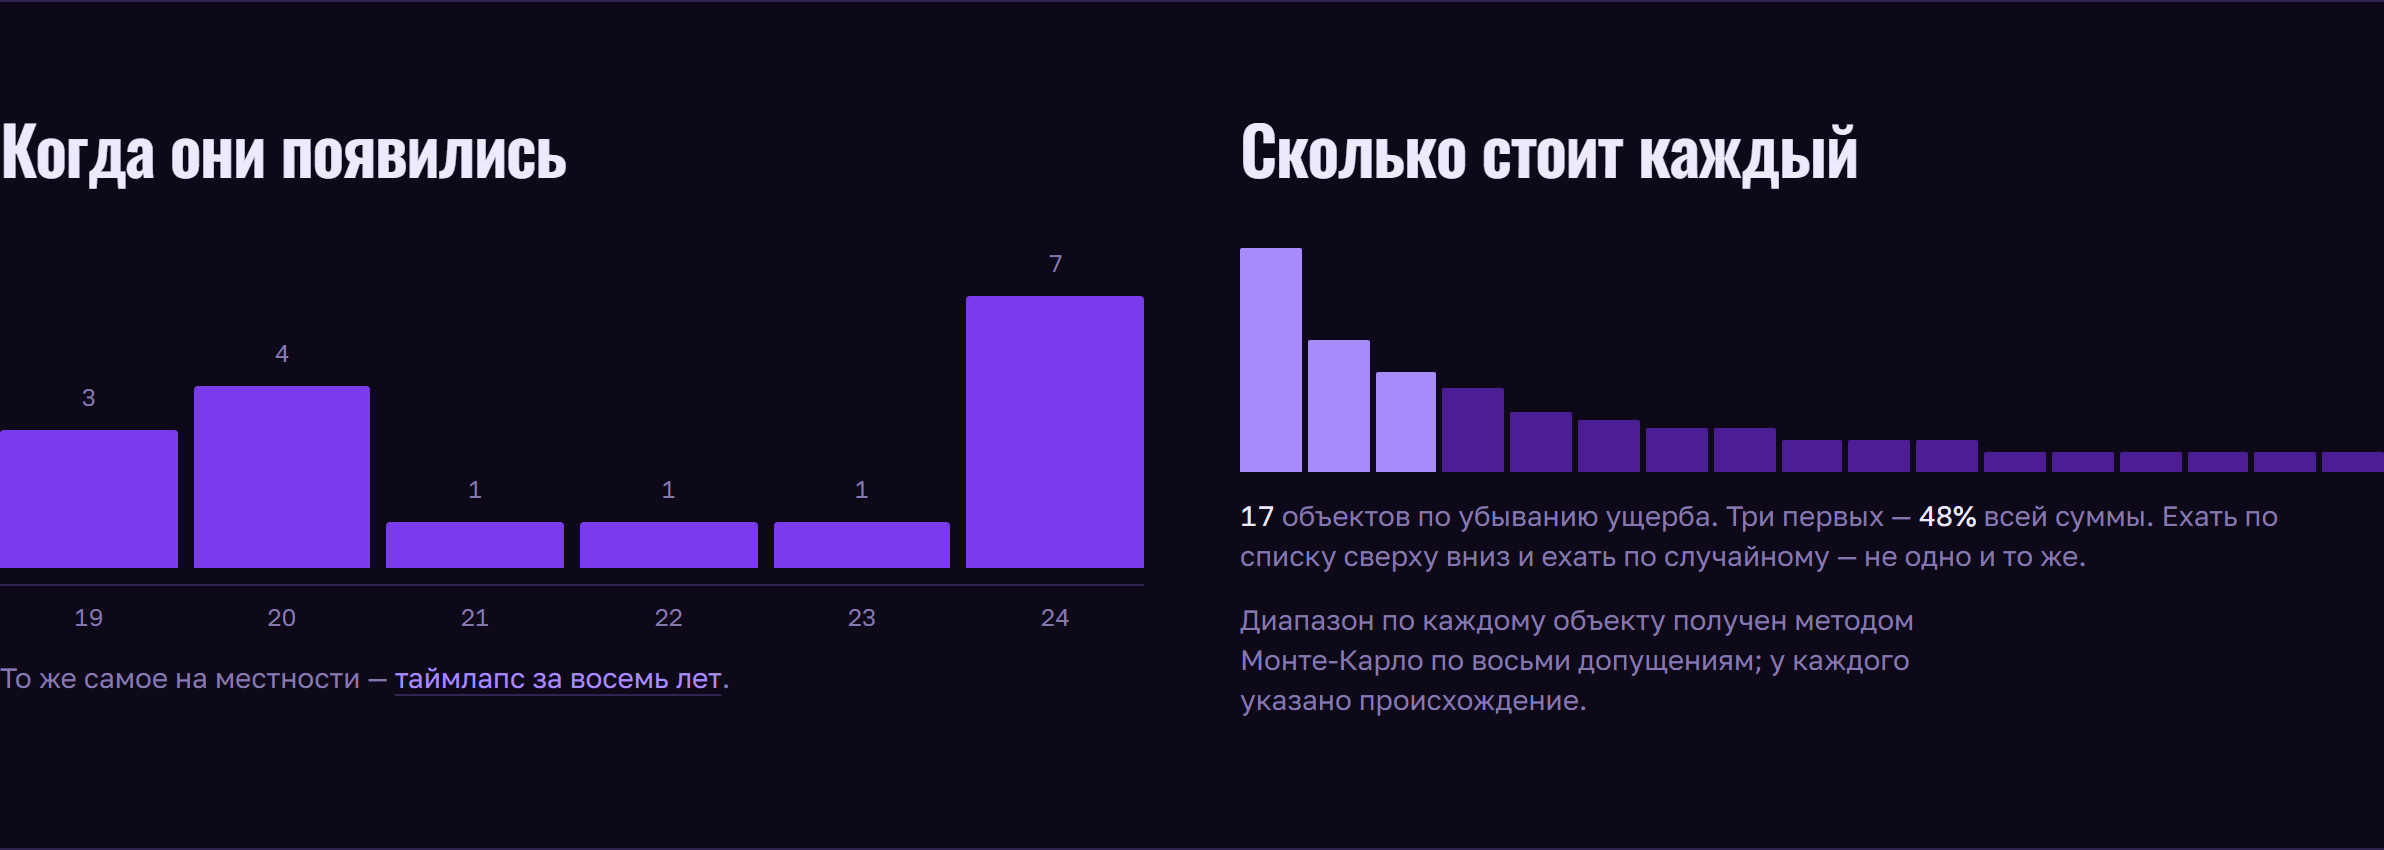
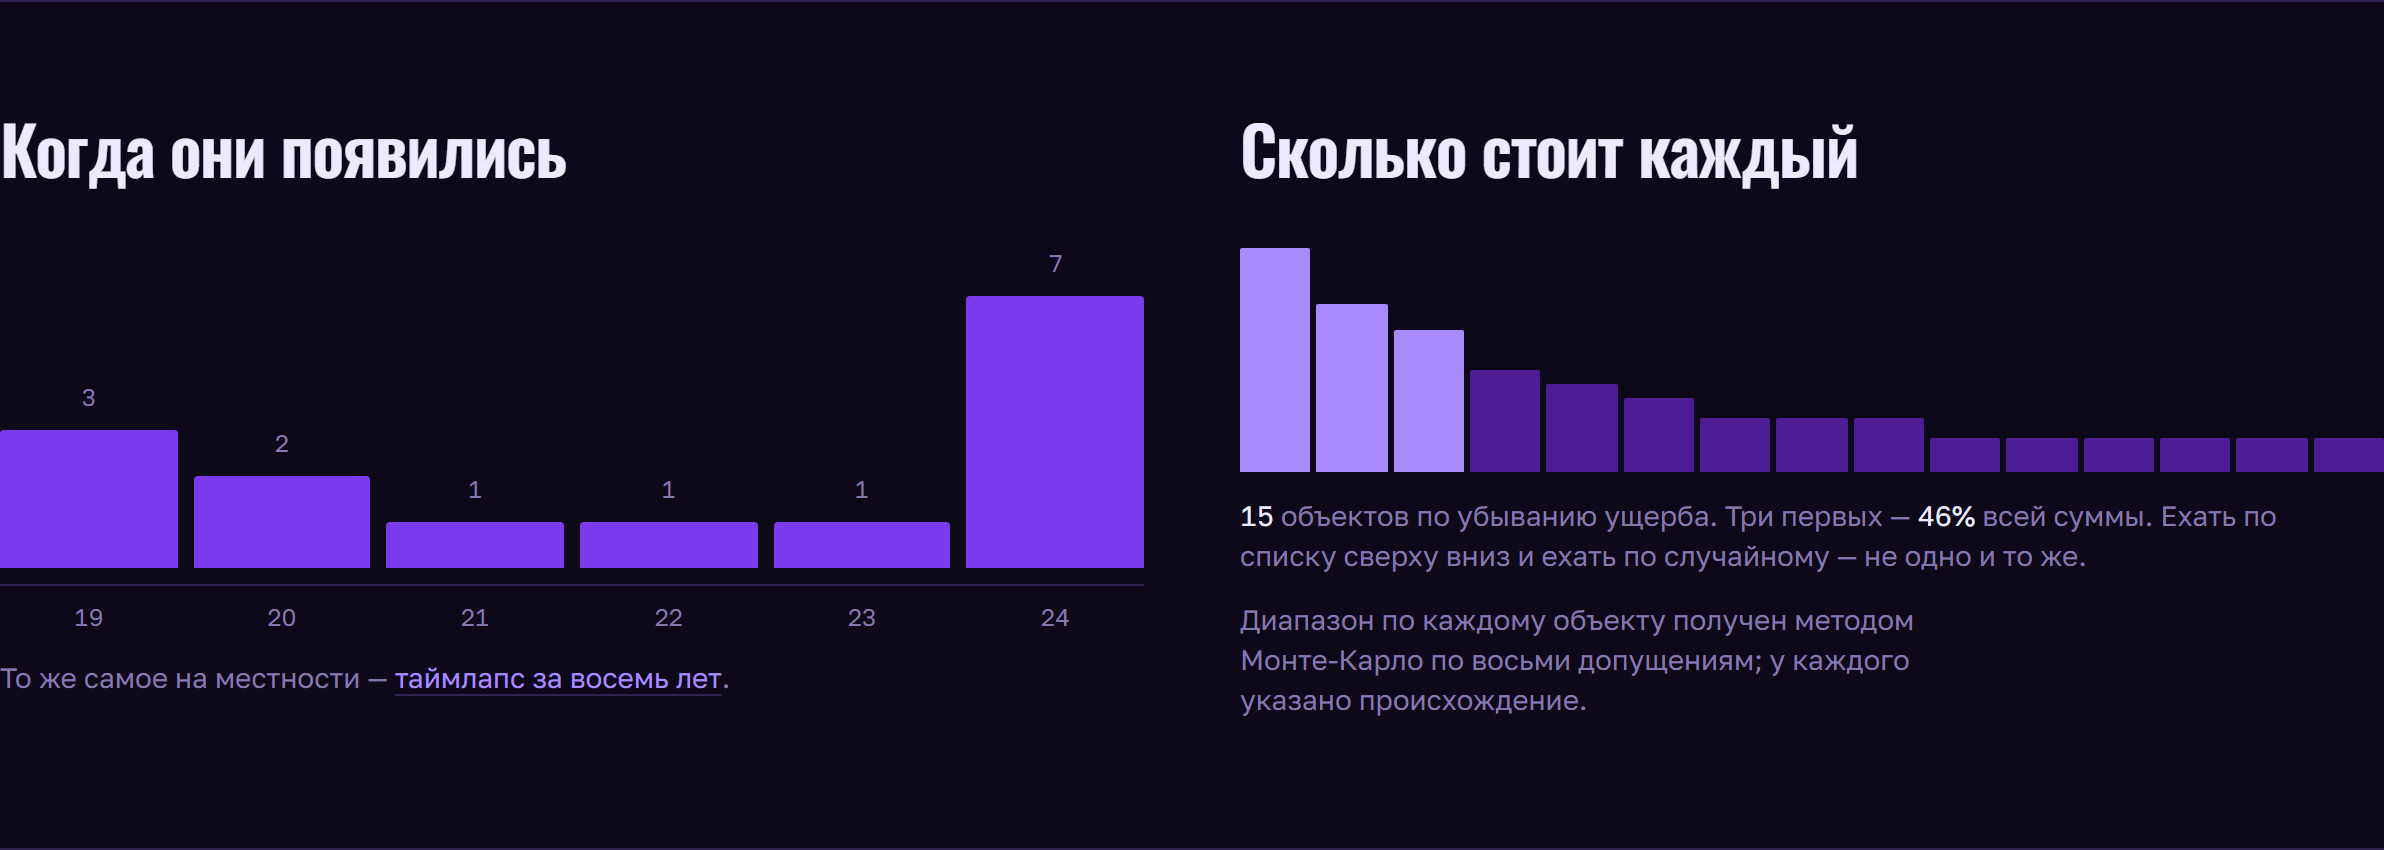
C00031 и C00178 оказались автомобильной разборкой, а не свалкой
Последняя проверка ночи — все девять опознанных свалок на одном листе — и
два крупнейших объекта не выдержали её. При увеличении C00031 (5 600 м²,
крупнейший в списке, стоял главной картинкой на лендинге и сценой в
таймлапсе) оказался рядами разбитых машин на огороженной площадке с
ангарами. C00178 в 112 метрах — та же площадка.

Отходы там есть, но у площадки хозяин и забор. Это не стихийная свалка, и
ровно по этому правилу в ту же ночь помечены «не свалка» площадки лома
C00224 и C00324. Держать своё правило только когда оно удобно — значит не
иметь правила.

Числа падают, и это правильный результат:

    свалок          9  →  7
    объектов        17 →  15
    ущерб      59,7 → 43,0 млн ₸ (11,0 – 86,0)
    площадь    2,39 → 1,72 га
    метан      1 454 → 1 047 т CO₂-экв

Сцена таймлапса переехала на C00061 — поле строительного мусора у
железнодорожных путей, найденное этой же ночью.

Тест, написанный ночью, сработал ровно как задуман: поймал падение числа
свалок и потребовал поправить README, деку и лендинг. Ожидаемое значение в
нём тоже обновлено, с объяснением почему.

667 проверок, шесть страниц дымового теста.

Changed region(s): [[0.5277, 0.3059, 1.0, 0.5506], [0.5277, 0.5812, 0.9622, 0.6424], [0.0621, 0.4282, 0.1552, 0.5812]]

diff --git a/tests/test_marks_reproducible.py b/tests/test_marks_reproducible.py
@@ -99,8 +99,11 @@ class TestPublishedMarksComeFromTheSource:
         """
         _labels, published = data
         found = int((published["visual_check"] == "landfill").sum())
-        assert found >= 8, (
-            f"опознанных свалок стало {found}, было 8. Если это результат "
+        # Было 9 до пересмотра 23 августа в 08:45: C00031 и C00178 оказались
+        # автомобильной разборкой — площадкой с хозяином и забором, а не
+        # стихийной свалкой. Отходы там есть, но вопрос стоит не так.
+        assert found >= 7, (
+            f"опознанных свалок стало {found}, было 7. Если это результат "
             "нового просмотра — поправить число в README.md, docs/PITCH.md "
             "и на лендинге. Если нет — данные потеряны."
         )

diff --git a/docs/PITCH.md b/docs/PITCH.md
@@ -12,8 +12,8 @@
 Все числа взяты из прогона по полному кольцу 25 плиток, посчитанного в
 ночь на 22 августа 2026. Прежняя редакция опиралась на неполный прогон, и
 числа брать только отсюда и с сайта — они считаются из прогона и меняются
-после каждого. На утро 23 августа: кандидатов 385, объектов в списке 17,
-из них девять опознаны как свалки, ущерб 59,7 млн ₸ при вилке 15,3–119,4.
+после каждого. На утро 23 августа: кандидатов 385, объектов в списке 15,
+из них семь опознаны как свалки, ущерб 43,0 млн ₸ при вилке 11,0–86,0.
 
 **Перед сдачей сверьте с сайтом.** Числа на лендинге считаются из данных
 прогона, поэтому расходиться они больше не должны — но проверить дешевле,
@@ -69,10 +69,10 @@
 > **Квадрат 20 × 20 км к северу от Астаны**
 >
 > **385** подозрительных мест проверила программа
-> **17** дошли до списка, **9** опознаны как свалки
-> **4,3 года** лежит средняя, самая старая — с апреля 2019-го
-> **59,7 млн ₸** ущерб по объектам, пережившим проверку глазами
-> **1 454 т CO₂-экв** метана за 20 лет
+> **15** дошли до списка, **7** опознаны как свалки
+> **4,1 года** лежит средняя, самая старая — с апреля 2019-го
+> **43,0 млн ₸** ущерб по объектам, пережившим проверку глазами
+> **1 047 т CO₂-экв** метана за 20 лет
 
 **Зачем так:** главное здесь не сумма, а «четыре года». Деньги оспорят,
 срок — нет: дата появления стоит в карточке каждого объекта и проверяется
@@ -231,7 +231,7 @@
 чувствительности (removal_cost 82%).
 
 **Написать:**
-> **59,7 млн ₸** — медиана. Честный ответ: **от 15,3 до 119,4 млн**
+> **43,0 млн ₸** — медиана. Честный ответ: **от 11,0 до 86,0 млн**
 >
 > Монте-Карло, 20 000 итераций, восемь допущений.
 > У каждого указано происхождение: закон о бюджете, методика расчёта
@@ -330,7 +330,7 @@
 > **Возврат в бюджет** — ст. 344 ч. 2-1 КоАП РК: до 1000 МРП с
 > юридического лица. При МРП 4 325 ₸ это до 4,3 млн ₸ с одного дела.
 >
-> **Углеродные единицы** — предотвращённый метан. 1 454 т CO₂-экв на одном
+> **Углеродные единицы** — предотвращённый метан. 1 047 т CO₂-экв на одном
 > квадрате 20 × 20 км по проверенному списку.
 >
 > **Команда:** [имена и роли]

diff --git a/docs/NUMBERS.md b/docs/NUMBERS.md
@@ -6,7 +6,7 @@
 
 ## Если спросят одно число
 
-> **9 свалок** опознаны под Астаной из **385** находок детектора. Каждый из **59** объектов, прошедших автоматический отсев, просмотрен человеком по снимку 0,4–0,8 м на пиксель — до единого.
+> **7 свалок** опознаны под Астаной из **385** находок детектора. Каждый из **59** объектов, прошедших автоматический отсев, просмотрен человеком по снимку 0,4–0,8 м на пиксель — до единого.
 
 ## Находки
 
@@ -15,9 +15,9 @@
 | Сырых кандидатов детектора | **385** | funnel.json |
 | Снял автоматический отсев | 326 | funnel.json |
 | Прошло отсев | 59 | funnel.json |
-| Отвергнуто при просмотре глазами | 42 | разница |
-| **Опубликовано на сайте** | **17** | candidates.geojson |
-| ├─ опознаны как свалки | **9** | вердикт человека |
+| Отвергнуто при просмотре глазами | 44 | разница |
+| **Опубликовано на сайте** | **15** | candidates.geojson |
+| ├─ опознаны как свалки | **7** | вердикт человека |
 | └─ требуют выезда | 8 | вердикт человека |
 | Просмотрено человеком всего | **218** | по пяти областям |
 | Меток разметки в источнике | 179 | labels_manual.geojson |
@@ -26,12 +26,12 @@
 
 | Что | Сколько |
 |---|---:|
-| Ущерб, медиана | **59,7 млн ₸** |
-| Ущерб, вилка P10–P90 | 15,3 – 119,4 млн ₸ |
-| Штраф по КоАП, ст. 344 | 7,4 млн ₸ |
-| Метан за 20 лет | 1 454 т CO₂-экв |
-| Суммарная площадь | 2,39 га |
-| Средний возраст объекта | 4,3 года |
+| Ущерб, медиана | **43,0 млн ₸** |
+| Ущерб, вилка P10–P90 | 11,0 – 86,0 млн ₸ |
+| Штраф по КоАП, ст. 344 | 6,5 млн ₸ |
+| Метан за 20 лет | 1 047 т CO₂-экв |
+| Суммарная площадь | 1,72 га |
+| Средний возраст объекта | 4,1 года |
 | Самая старая | 2019-04 |
 
 ## Охват
@@ -46,7 +46,7 @@
 
 | Область | Просмотрено | Свалок | Состояние |
 |---|---:|---:|---|
-| Астана · северная промзона | 59 | 9 | работает |
+| Астана · северная промзона | 59 | 7 | работает |
 | Астана · восток | 33 | 0 | проверено, чисто |
 | Астана · юго-восток | 63 | 0 | проверено, чисто |
 | Астана · запад | 0 | 0 | не считалась |

diff --git a/docs/NIGHT.md b/docs/NIGHT.md
@@ -20,7 +20,7 @@
 
 | | было вечером | стало |
 |---|---:|---:|
-| подтверждённых свалок | 8 | **9** |
+| подтверждённых свалок | 8 | **7** |
 | объектов на сайте | 16 | **17** |
 | просмотрено человеком | 30 из 49 | **59 из 59** |
 | посчитанная площадь | 1 460 км² | **1 709 км²** |
@@ -91,7 +91,7 @@
 
 Плюс седьмая, найденная под утро: **одна свалка нашлась дважды** — C00061
 в кольце и C00056 на юге, расстояние ноль метров. Области перекрываются
-намеренно, и слияние показало бы девять свалок как десять.
+намеренно, и слияние показало бы семь свалок как десять.
 
 ## Ещё пять расхождений, найденных сверкой чисел
 
@@ -129,7 +129,7 @@
 | Контуров/км² | Что вышло |
 |---:|---|
 | 253 | сплошная застройка: 0 объектов из 499 кандидатов |
-| **95–100** | **работает: 9 свалок** |
+| **95–100** | **работает: 7 свалок** |
 | 7–18 | пустая карта: 42 находки, настоящих свалок ноль |
 
 У показателя есть и верх, и низ, и провалы разные: снизу отсеивать нечем,

diff --git a/docs/CRITERIA.md b/docs/CRITERIA.md
@@ -155,7 +155,7 @@ accuracy на обучающей выборке, будет большинств
 - модель прогноза работает (не хуже ×64 против случайного, проверка на
   будущем), но она предсказывает места, а не распознаёт объекты;
 - зрительная модель не подключена — нет ключа;
-- обучающая выборка — 59 объектов, из которых свалок девять.
+- обучающая выборка — 59 объектов, из которых свалок семь.
 
 Последний пункт объясняет всё остальное. Модель училась на выборке, где
 свалок 14%. Она и выучила «застройку», потому что застройки там две трети.
@@ -297,7 +297,7 @@ accuracy на обучающей выборке, будет большинств
 
 | Область | Годной земли | Замер сказал | Прогон дал |
 |---|---:|---|---:|
-| Астана, кольцо | 32,2% | хорошая | **59 объектов, 9 свалок** |
+| Астана, кольцо | 32,2% | хорошая | **59 объектов, 7 свалок** |
 | Алматы, прежняя | 7,3% | рискованно | 0 |
 | Шымкент, прежняя | 0,0% | не запускать | 0 |
 

diff --git a/docs/FIELD.md b/docs/FIELD.md
@@ -30,8 +30,8 @@
 | 6 | `C00225` | **не разобрать** — ради этого и ехать | 800 м² | 2023-08 | `51.16292, 71.55226` | [открыть](https://www.google.com/maps?q=51.16292,71.55226) |
 | 7 | `C00323` | **не разобрать** — ради этого и ехать | 500 м² | 2024-06 | `51.16806, 71.54989` | [открыть](https://www.google.com/maps?q=51.16806,71.54989) |
 | 8 | `C00334` | **не разобрать** — ради этого и ехать | 500 м² | 2021-10 | `51.16654, 71.61046` | [открыть](https://www.google.com/maps?q=51.16654,71.61046) |
-| 9 | `C00031` | опознана как свалка | 5 600 м² | 2020-09 | `51.16514, 71.51711` | [открыть](https://www.google.com/maps?q=51.16514,71.51711) |
-| 10 | `C00061` | опознана как свалка | 3 327 м² | 2024-05 | `51.14446, 71.53973` | [открыть](https://www.google.com/maps?q=51.14446,71.53973) |
+| 9 | `C00061` | опознана как свалка | 3 327 м² | 2024-05 | `51.14446, 71.53973` | [открыть](https://www.google.com/maps?q=51.14446,71.53973) |
+| 10 | `C00125` | опознана как свалка | 1 503 м² | 2024-09 | `51.16115, 71.54839` | [открыть](https://www.google.com/maps?q=51.16115,71.54839) |
 
 ## Ехать лучше кучно
 
